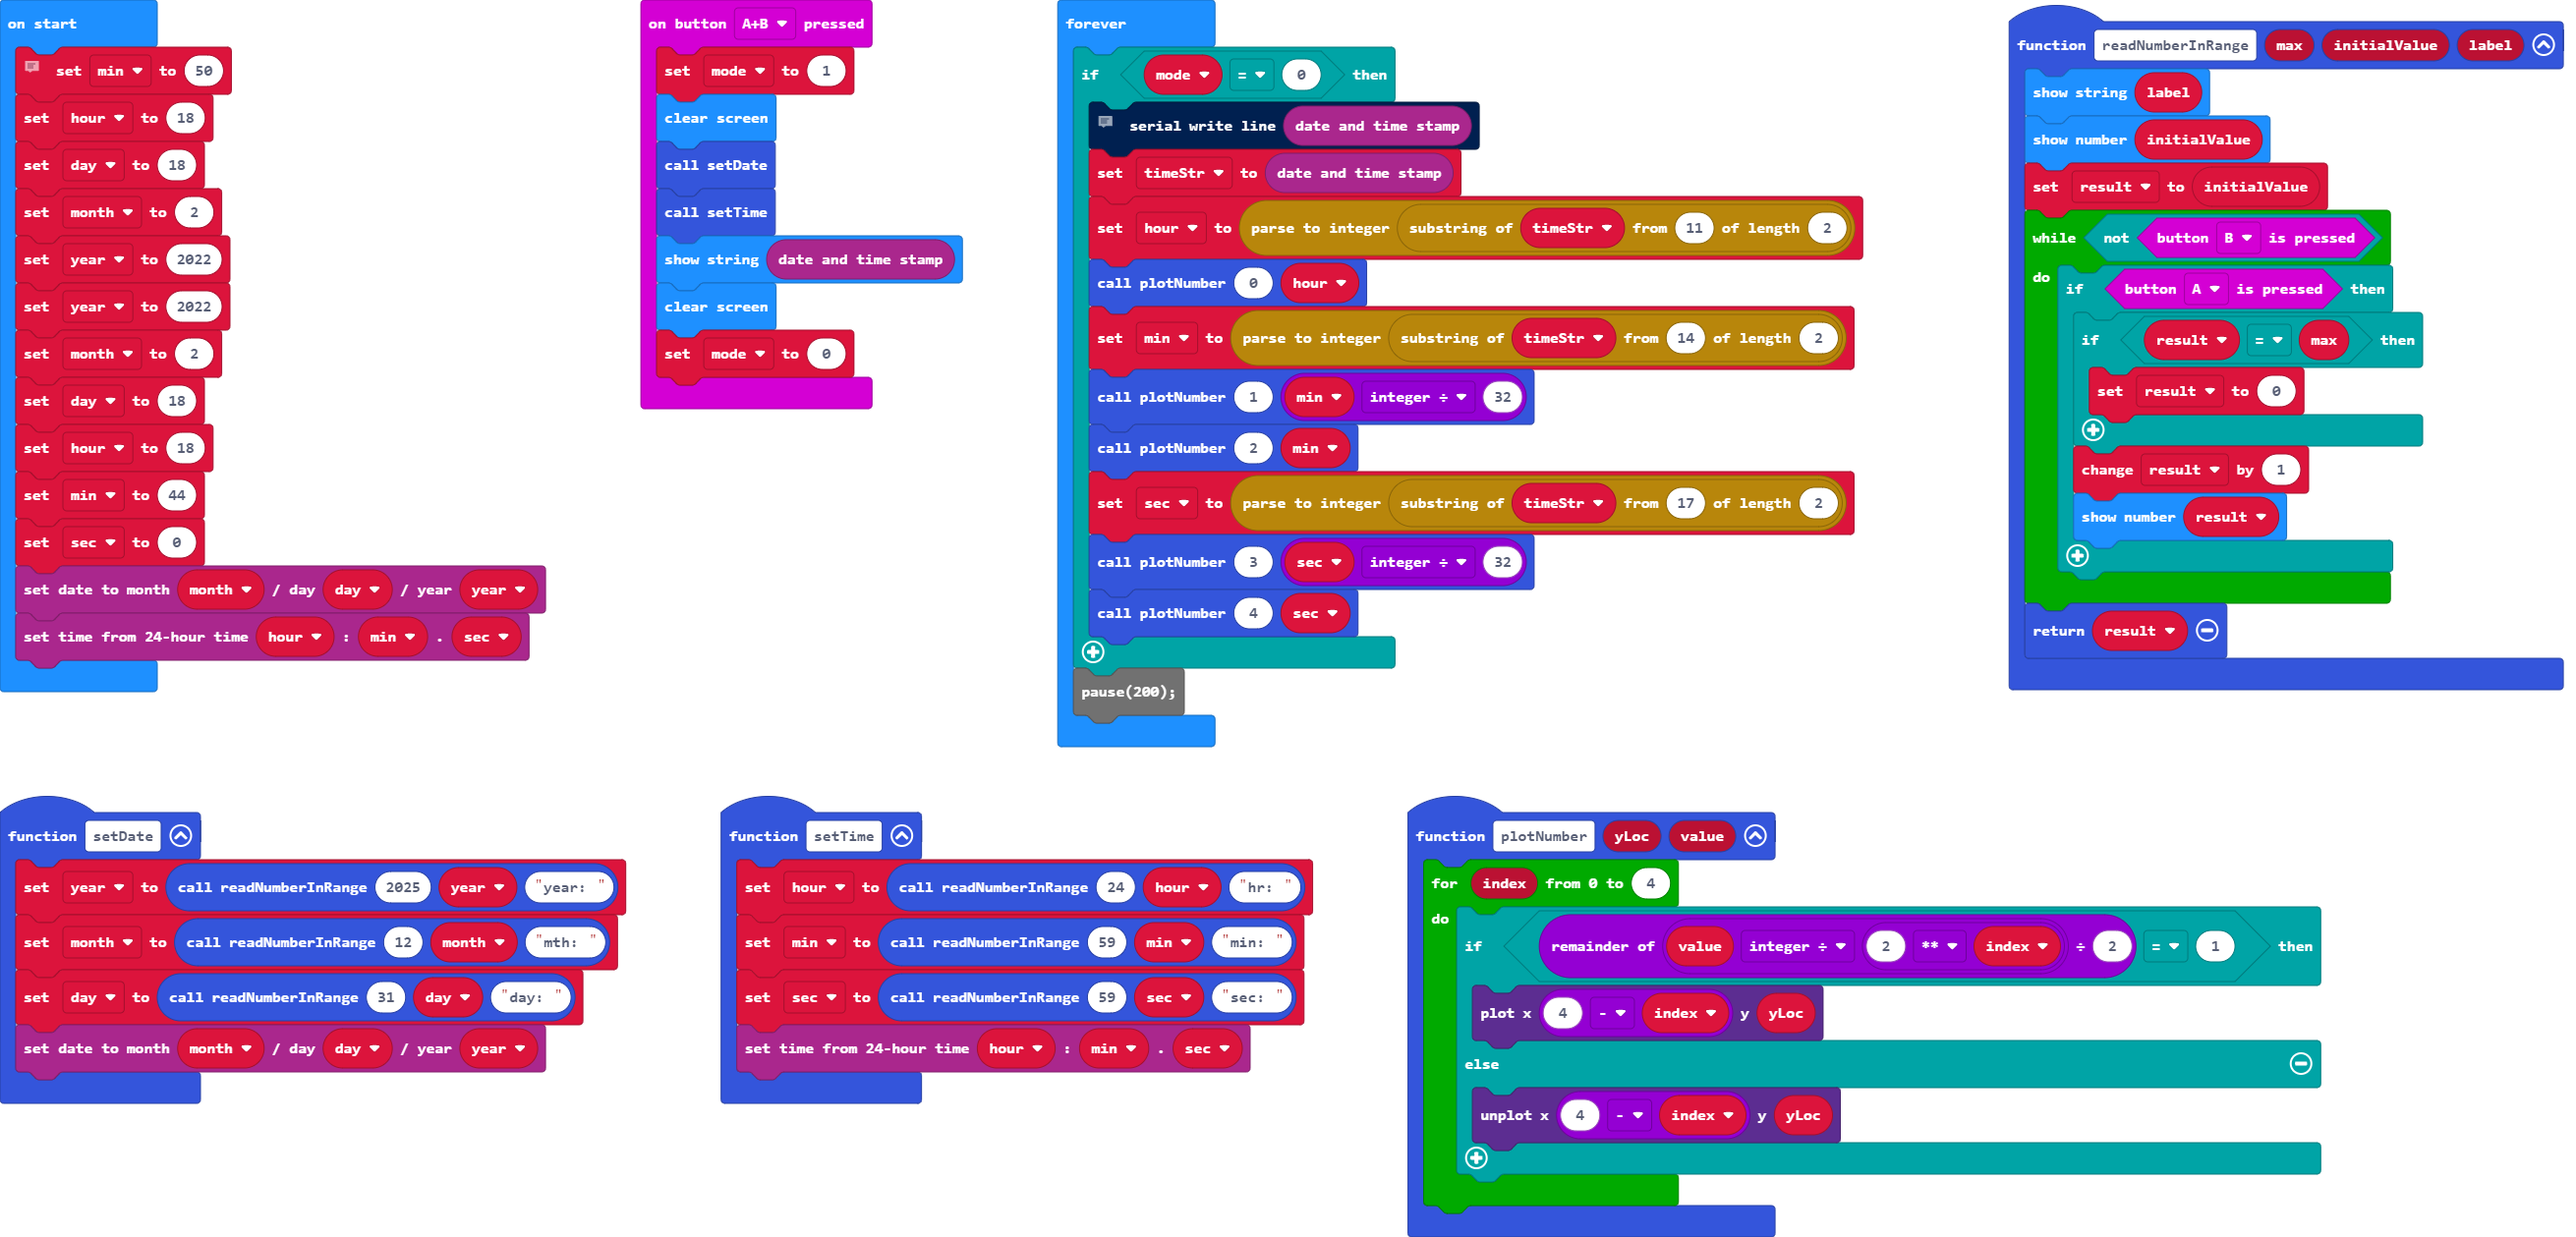
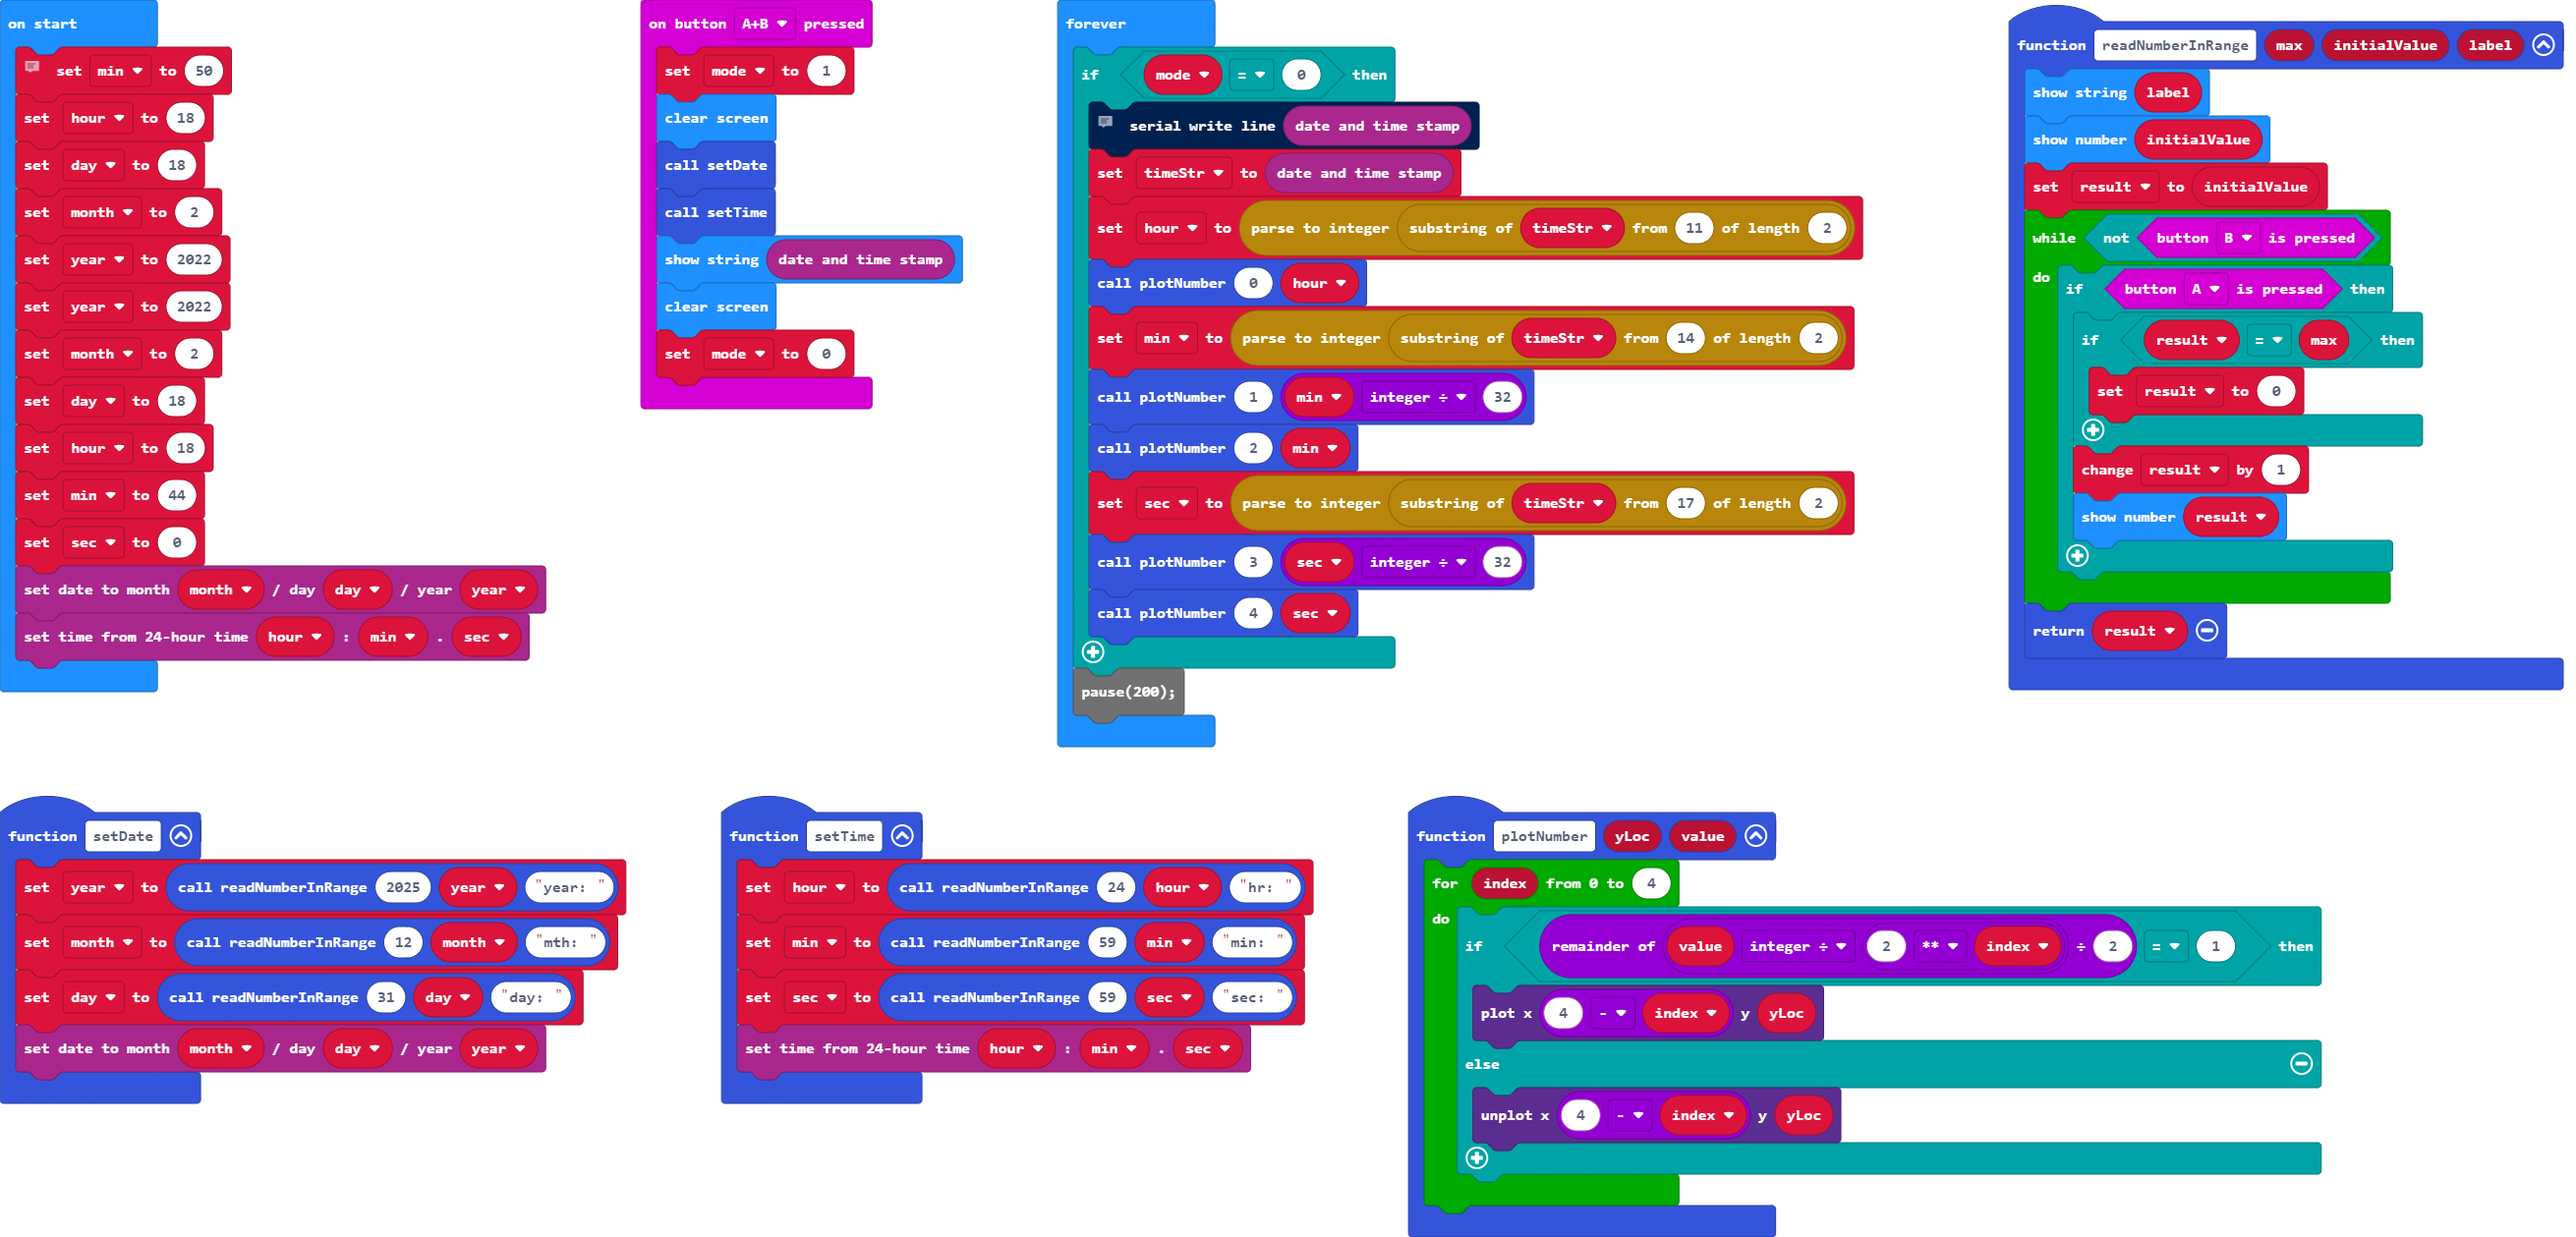
vertical layout, include temperature and light.

Changed region(s): [[0.5872, 0.6505, 0.6181, 0.6815], [0.5563, 0.7125, 0.5872, 0.7434]]

diff --git a/main.ts b/main.ts
@@ -1,49 +1,109 @@
+function plotDuringSetup (max: number, value: number) {
+    if (max > 31) {
+        plotNumber(0, Math.idiv(value, 32));
+        plotNumber(1, value);
+    } else {
+        plotNumber(0, value);
+    }
+}
+
 function readNumberInRange (max: number, initialValue: number, label: string) {
     basic.showString(label)
-    basic.showNumber(initialValue)
+    basic.clearScreen();
+    plotDuringSetup(max, result);
     result = initialValue
     while (!(input.buttonIsPressed(Button.B))) {
         if (input.buttonIsPressed(Button.A)) {
+            result += 1
             if (result == max) {
                 result = 0
             }
-            result += 1
-            basic.showNumber(result)
         }
+        plotDuringSetup(max, result);
+        pause(200);
+        basic.clearScreen();
+        pause(200);
     }
     return result
 }
+
 function setDate () {
     year = readNumberInRange(2025, year, "year: ")
     month = readNumberInRange(12, month, "mth: ")
     day = readNumberInRange(31, day, "day: ")
     timeanddate.setDate(month, day, year)
 }
-input.onButtonPressed(Button.AB, function () {
-    mode = 1
-    basic.clearScreen()
-    setDate()
-    setTime()
-    basic.showString(timeanddate.dateTime())
-    basic.clearScreen()
-    mode = 0
-})
-function setTime () {
+
+function setTime() {
     hour = readNumberInRange(24, hour, "hr: ")
     min = readNumberInRange(59, min, "min: ")
-    sec = readNumberInRange(59, sec, "sec: ")
+    sec = readNumberInRange(59, 0, "sec: ")
     timeanddate.set24HourTime(hour, min, sec)
 }
-function plotNumber (yLoc: number, value: number) {
+
+function plotNumber(xLoc: number, value: number) {
     for (let index = 0; index <= 4; index++) {
         if (Math.idiv(value, 2 ** index) % 2 == 1) {
-            led.plot(4 - index, yLoc)
+            led.plot(xLoc, 4 - index)
         } else {
-            led.unplot(4 - index, yLoc)
+            led.unplot(xLoc, 4 - index)
         }
     }
 }
+
+function plotTime() {
+    // YYYY-MM-DD HH:MM.SS
+    serial.writeLine(timeanddate.dateTime())
+    timeStr = timeanddate.dateTime()
+    hour = parseInt(timeStr.substr(11, 2))
+    plotNumber(0, hour)
+    min = parseInt(timeStr.substr(14, 2))
+    plotNumber(1, Math.idiv(min, 32))
+    plotNumber(2, min)
+    sec = parseInt(timeStr.substr(17, 2))
+    plotNumber(3, Math.idiv(sec, 32))
+    plotNumber(4, sec)
+}
+
+function plotDate() {
+    // YYYY-MM-DD HH:MM.SS
+    timeStr = timeanddate.dateTime()
+    month = parseInt(timeStr.substr(5, 2))
+    plotNumber(0, month)
+    day = parseInt(timeStr.substr(8, 2))
+    plotNumber(1, day)
+
+    plotNumber(3, input.temperature());
+    plotNumber(4, Math.idiv(input.lightLevel(), 5));
+}
+
+input.onButtonPressed(Button.A, function () {
+    if (mode >= 10) {
+        // we are in edit mode; don't disturb.
+        return; 
+    }
+    basic.clearScreen();
+    if (mode == 0) {
+        mode = 1;
+    } else if (mode == 1) {
+        mode = 0;
+    }
+});
+
+input.onButtonPressed(Button.AB, function () {
+    mode = mode + 10;
+    basic.clearScreen()
+    if (mode == 10) {
+        setTime();
+    } else if (mode == 11) {
+        setDate();
+    }
+    basic.clearScreen()
+    mode = mode - 10;
+})
+
 let timeStr = ""
+// Modes: 0: clock, 1: date / temperature / light, 10: edit clock, 11: edit date
 let mode = 0
 let result = 0
 let sec = 0
@@ -52,7 +112,6 @@ let month = 0
 let day = 0
 let hour = 0
 let min = 0
-// 0: clock, 1: date / temperature / light, 2: edit clock, 3: edit date
 min = 50
 hour = 18
 day = 18
@@ -60,25 +119,19 @@ month = 2
 year = 2022
 year = 2022
 month = 2
-day = 18
+day = 19
 hour = 18
 min = 44
 sec = 0
 timeanddate.setDate(month, day, year)
 timeanddate.set24HourTime(hour, min, sec)
+led.setBrightness(32);
 basic.forever(function () {
     if (mode == 0) {
-        // YYYY-MM-DD HH:MM.SS
-        serial.writeLine(timeanddate.dateTime())
-        timeStr = timeanddate.dateTime()
-        hour = parseInt(timeStr.substr(11, 2))
-        plotNumber(0, hour)
-        min = parseInt(timeStr.substr(14, 2))
-        plotNumber(1, Math.idiv(min, 32))
-        plotNumber(2, min)
-        sec = parseInt(timeStr.substr(17, 2))
-        plotNumber(3, Math.idiv(sec, 32))
-        plotNumber(4, sec)
+        plotTime();
+        pause(200);
+    } else if (mode == 1) {
+        plotDate();
+        pause(200);
     }
-    pause(200);
 })
